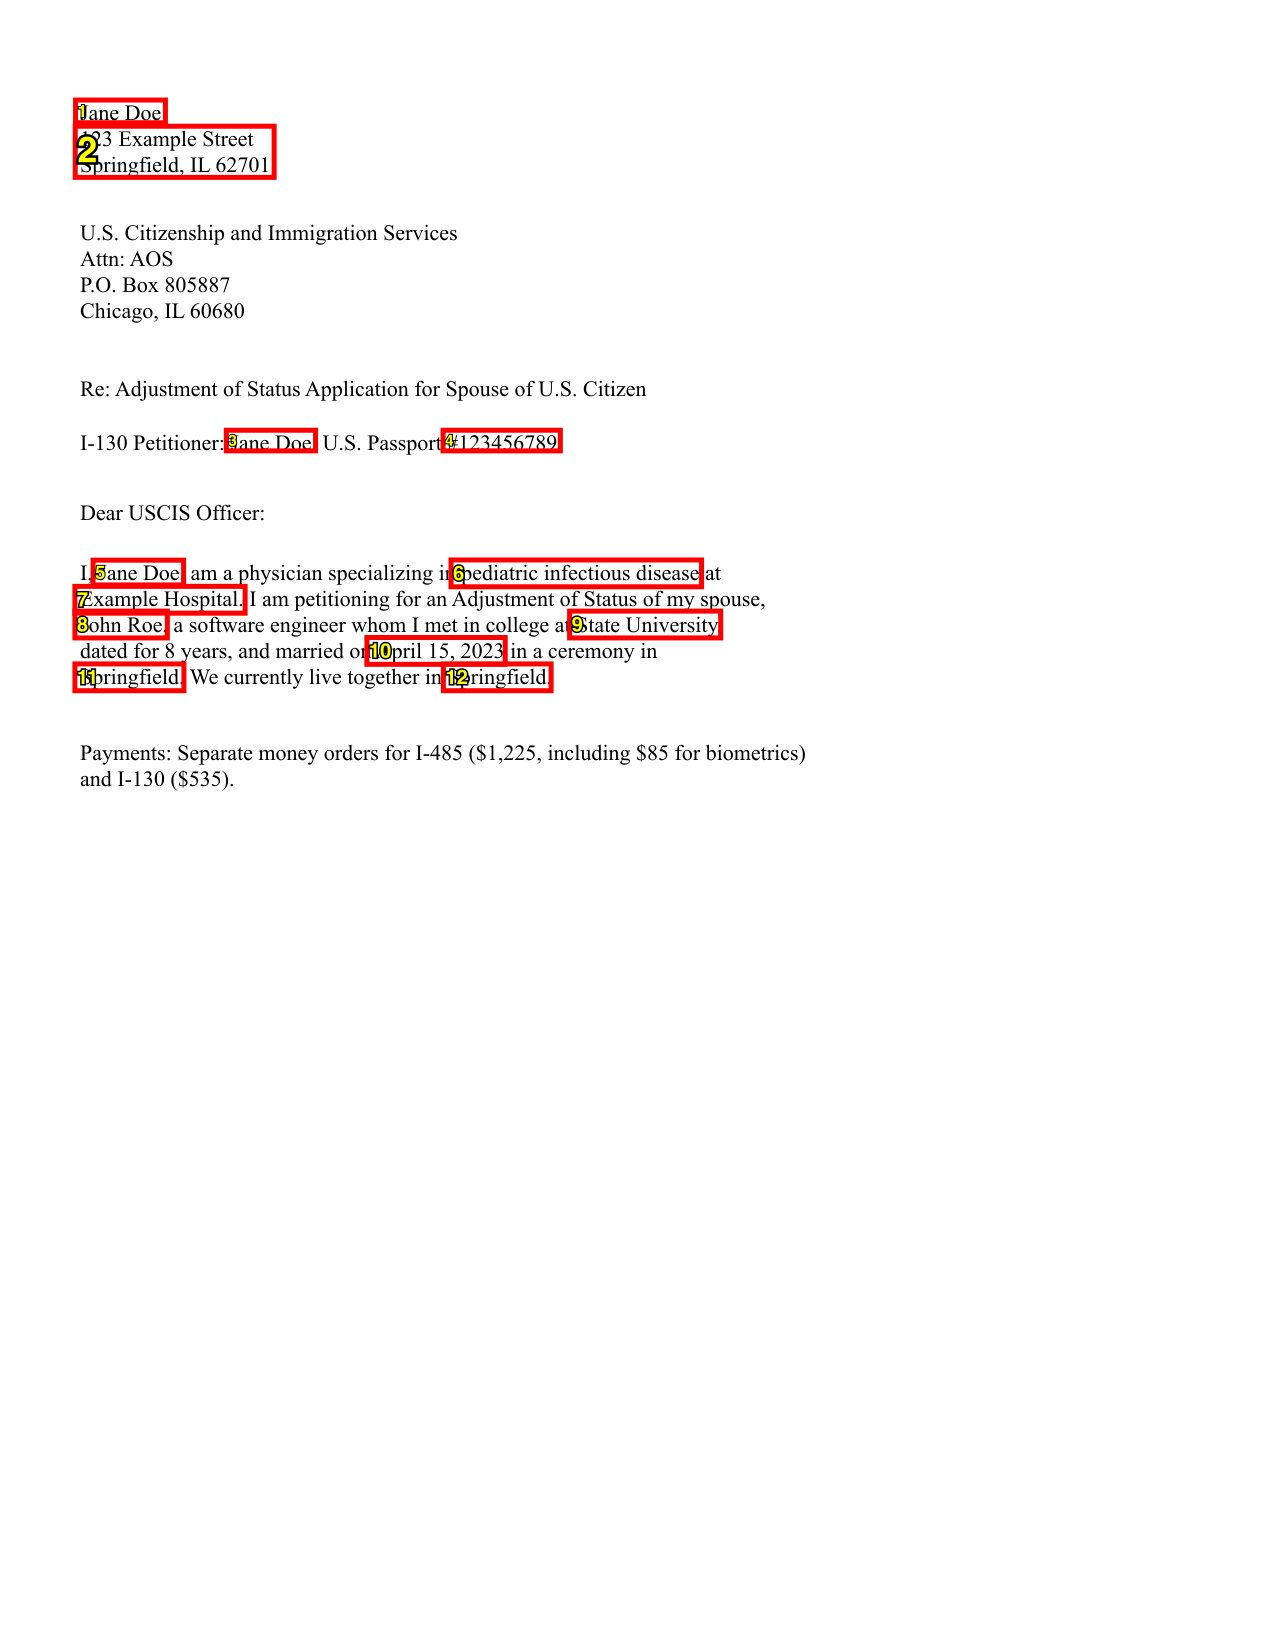
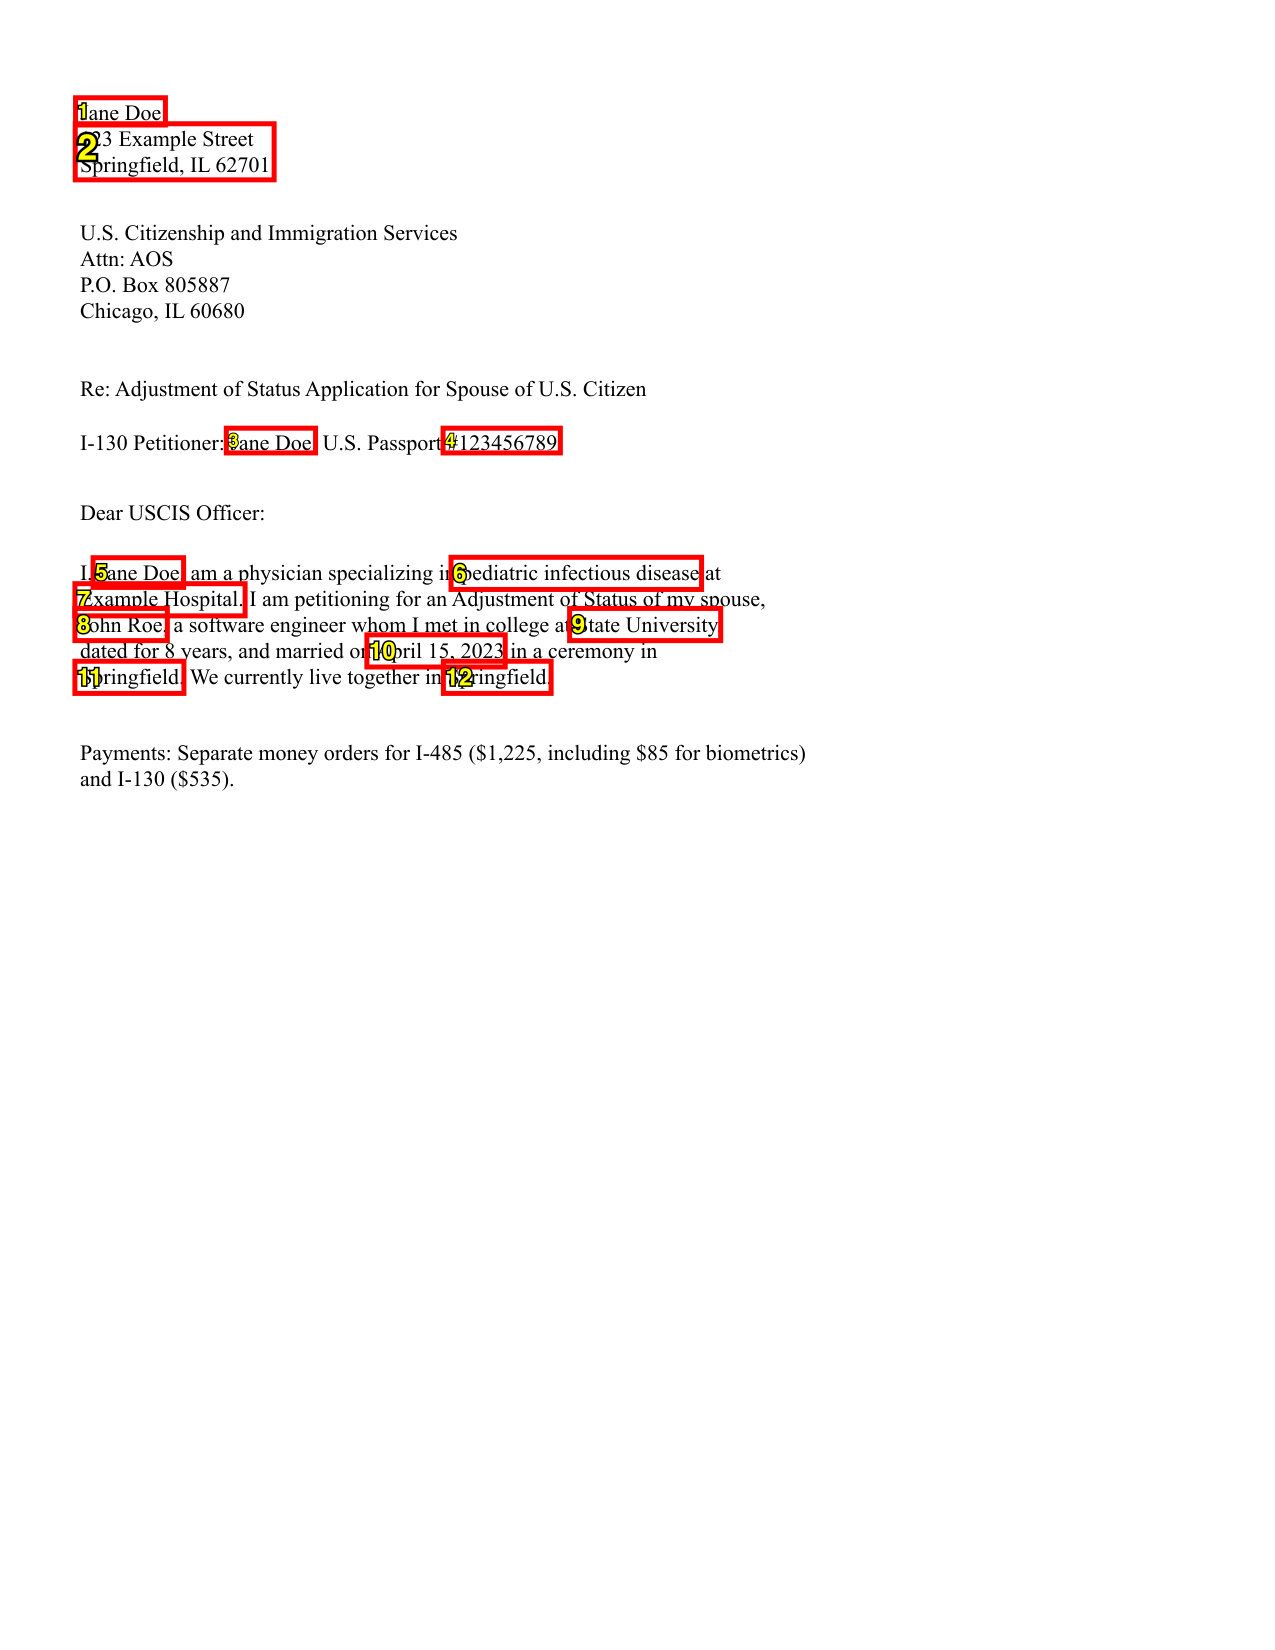
Expand text redaction boxes by a quarter line height
Descenders (g, j, p, q, y) were not fully covered at one-eighth line
height of vertical padding. Raise vertical padding to one-quarter to
match horizontal padding.

Re-recorded processRedaction Gemini mocks and annotated test JPEGs with
DELETE_UNUSED=1.

diff --git a/lib/redaction/getRedactionBoundingBoxes.ts b/lib/redaction/getRedactionBoundingBoxes.ts
@@ -310,7 +310,9 @@ function mapRedactionBoxToBoundingBox(
  * not a true 1/4 line height on pages whose width and height differ.
  */
 function expandTextBox(box: BoundingBox, lineHeight: number): BoundingBox {
-  const verticalPadding = lineHeight / 8;
+  // Padding on each side is a quarter line height. A smaller value left the
+  // descenders of g, j, p, q, and y partly visible.
+  const verticalPadding = lineHeight / 4;
   const horizontalPadding = lineHeight / 4;
   return {
     minX: Math.max(0, box.minX - horizontalPadding),
